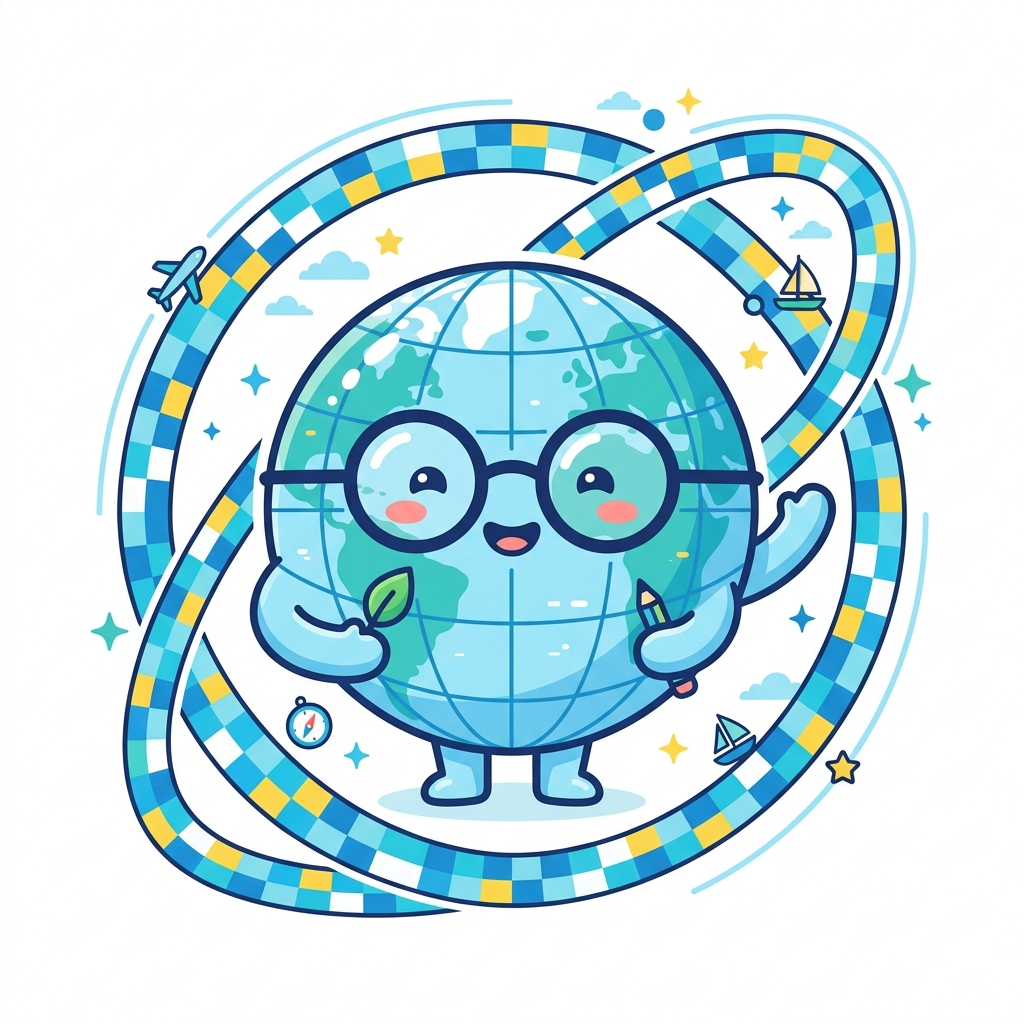
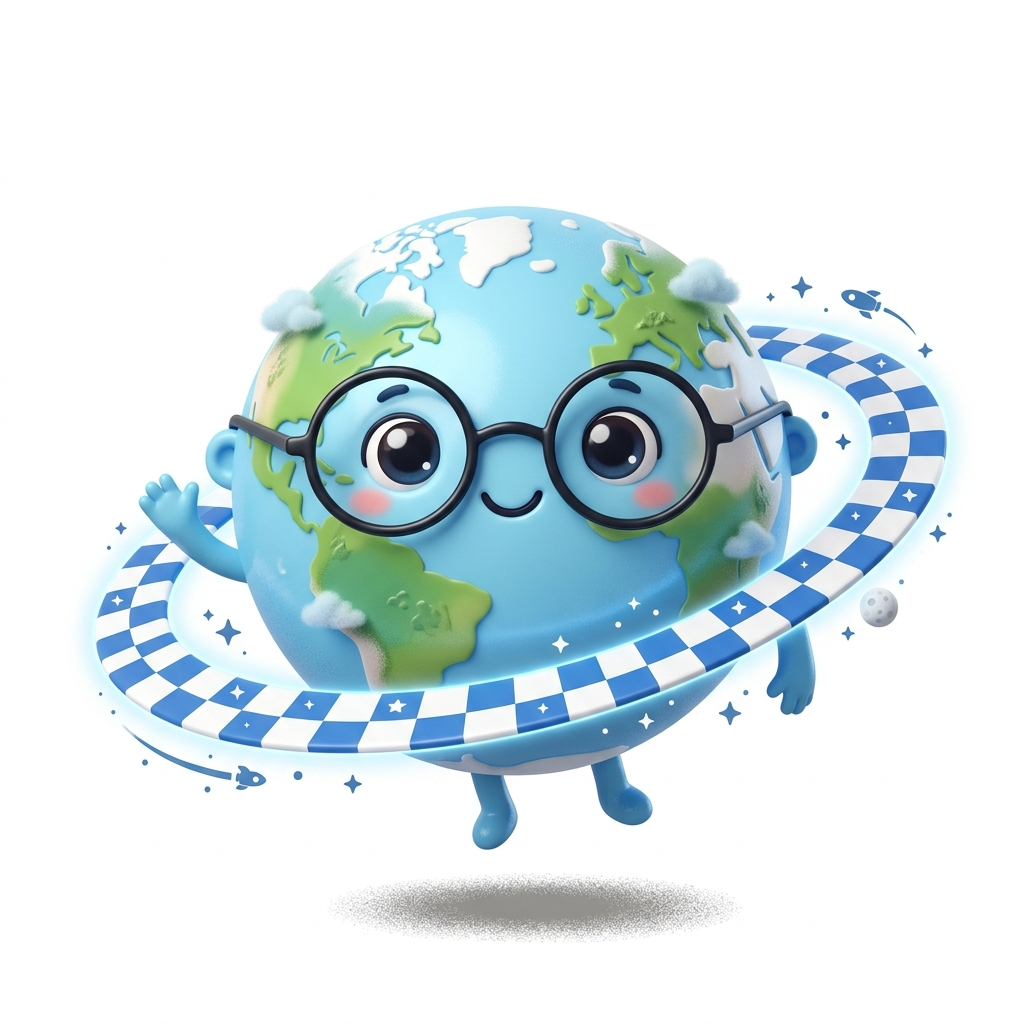
UI polishing: Replace 2D mascot with floating 3D mascot without white background

diff --git a/patch_mascot.js b/patch_mascot.js
@@ -1,0 +1,31 @@
+const fs = require('fs');
+let css = fs.readFileSync('C:/Users/pc/Documents/minddoo.github.io/style.css', 'utf8');
+
+// Replace mascot-img CSS to add float animation and mix-blend-mode
+const oldMascotCss = /\.mascot-img\s*\{.*?\}/s;
+const newMascotCss = `
+@keyframes float {
+    0% { transform: translateY(0px); }
+    50% { transform: translateY(-15px); }
+    100% { transform: translateY(0px); }
+}
+
+.mascot-img {
+    width: 200px;
+    height: auto;
+    display: block;
+    margin: 0 auto 20px auto;
+    animation: float 3s ease-in-out infinite;
+    mix-blend-mode: multiply; /* Removes white square background */
+    filter: drop-shadow(0px 10px 15px rgba(0,0,0,0.1));
+}
+`;
+
+if (oldMascotCss.test(css)) {
+    css = css.replace(oldMascotCss, newMascotCss);
+} else {
+    css += '\n' + newMascotCss;
+}
+
+fs.writeFileSync('C:/Users/pc/Documents/minddoo.github.io/style.css', css, 'utf8');
+console.log('Updated mascot CSS for floating 3D effect.');

diff --git a/style.css b/style.css
@@ -567,9 +567,20 @@ body {
     align-items: center;
     font-size: 50px;
 }
+
+@keyframes float {
+    0% { transform: translateY(0px); }
+    50% { transform: translateY(-15px); }
+    100% { transform: translateY(0px); }
+}
+
 .mascot-img {
-    width: 150px;
+    width: 200px;
     height: auto;
     display: block;
     margin: 0 auto 20px auto;
+    animation: float 3s ease-in-out infinite;
+    mix-blend-mode: multiply; /* Removes white square background */
+    filter: drop-shadow(0px 10px 15px rgba(0,0,0,0.1));
 }
+
